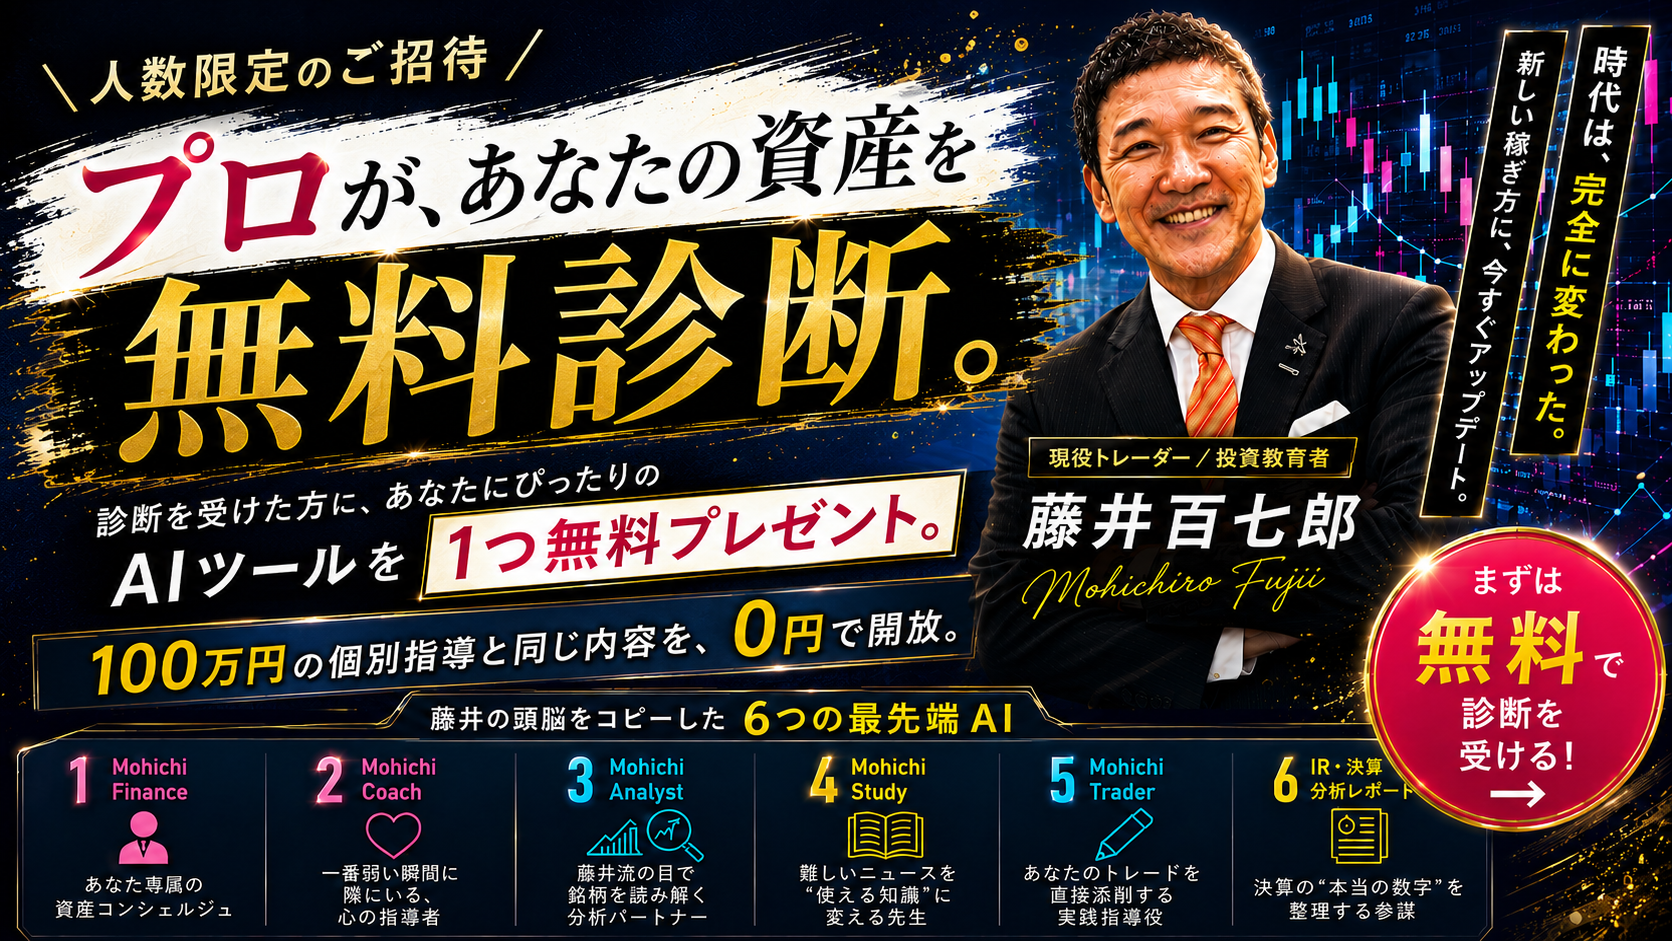
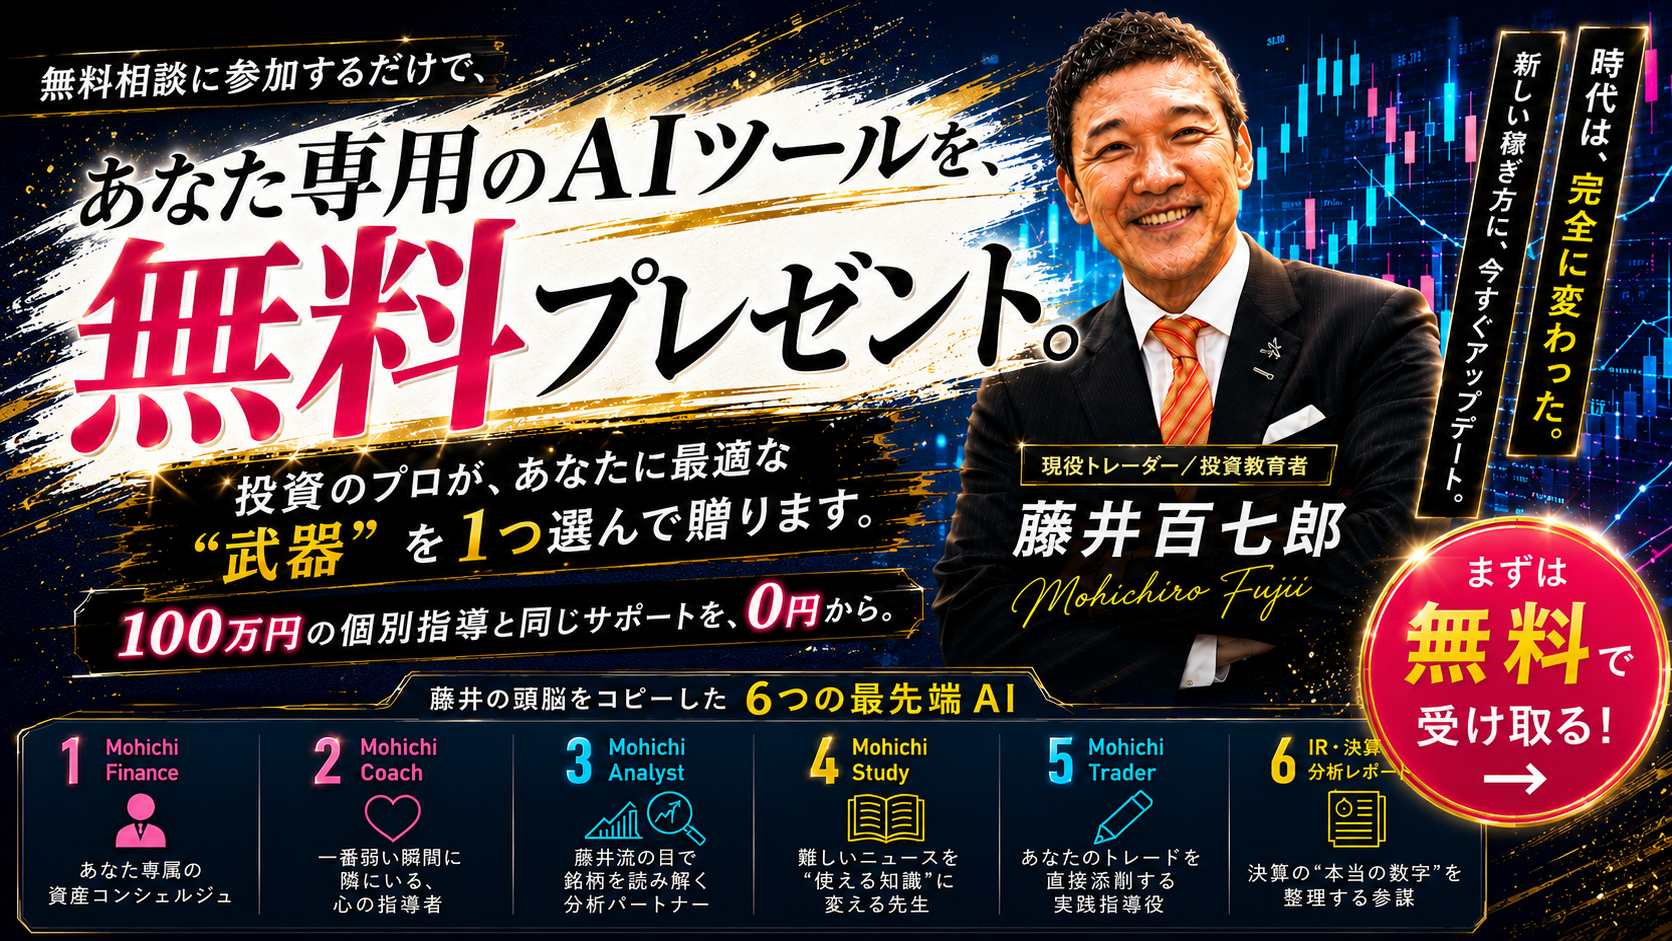
Update A variant FV (AIツール無料プレゼント版) + alt + versions card

diff --git a/a.html b/a.html
@@ -264,7 +264,7 @@
   <a href="#offer" aria-label="無料で受け取る">
     <picture>
       <source media="(max-width:760px)" srcset="assets/fv_sp_a.png">
-      <img src="assets/fv_pc_a.png" alt="人数限定のご招待。投資のプロが、あなたの資産を無料診断。診断を受けた方に、あなたにぴったりのAIツールを1つ無料プレゼント。100万円の個別指導と同じ内容を0円で開放。現役トレーダー／投資教育者 藤井百七郎">
+      <img src="assets/fv_pc_a.png" alt="無料相談に参加するだけで、あなた専用のAIツールを無料プレゼント。投資のプロが、あなたに最適な武器を1つ選んで贈ります。100万円の個別指導と同じサポートを0円から。現役トレーダー／投資教育者 藤井百七郎">
     </picture>
   </a>
 </header>

diff --git a/versions.html b/versions.html
@@ -44,8 +44,8 @@
       <img src="assets/fv_pc_a.png" alt="A案FV" loading="lazy">
       <div class="body">
         <span class="tag">A案</span>
-        <h2>プロが、あなたの資産を無料診断。</h2>
-        <p>人数限定のご招待／ぴったりのAIツールを1つ無料プレゼント</p>
+        <h2>あなた専用のAIツールを、無料プレゼント。</h2>
+        <p>無料相談に参加するだけ／プロが最適な武器を1つ選んで贈る</p>
         <div class="go">このLPを開く →</div>
       </div>
     </a>
